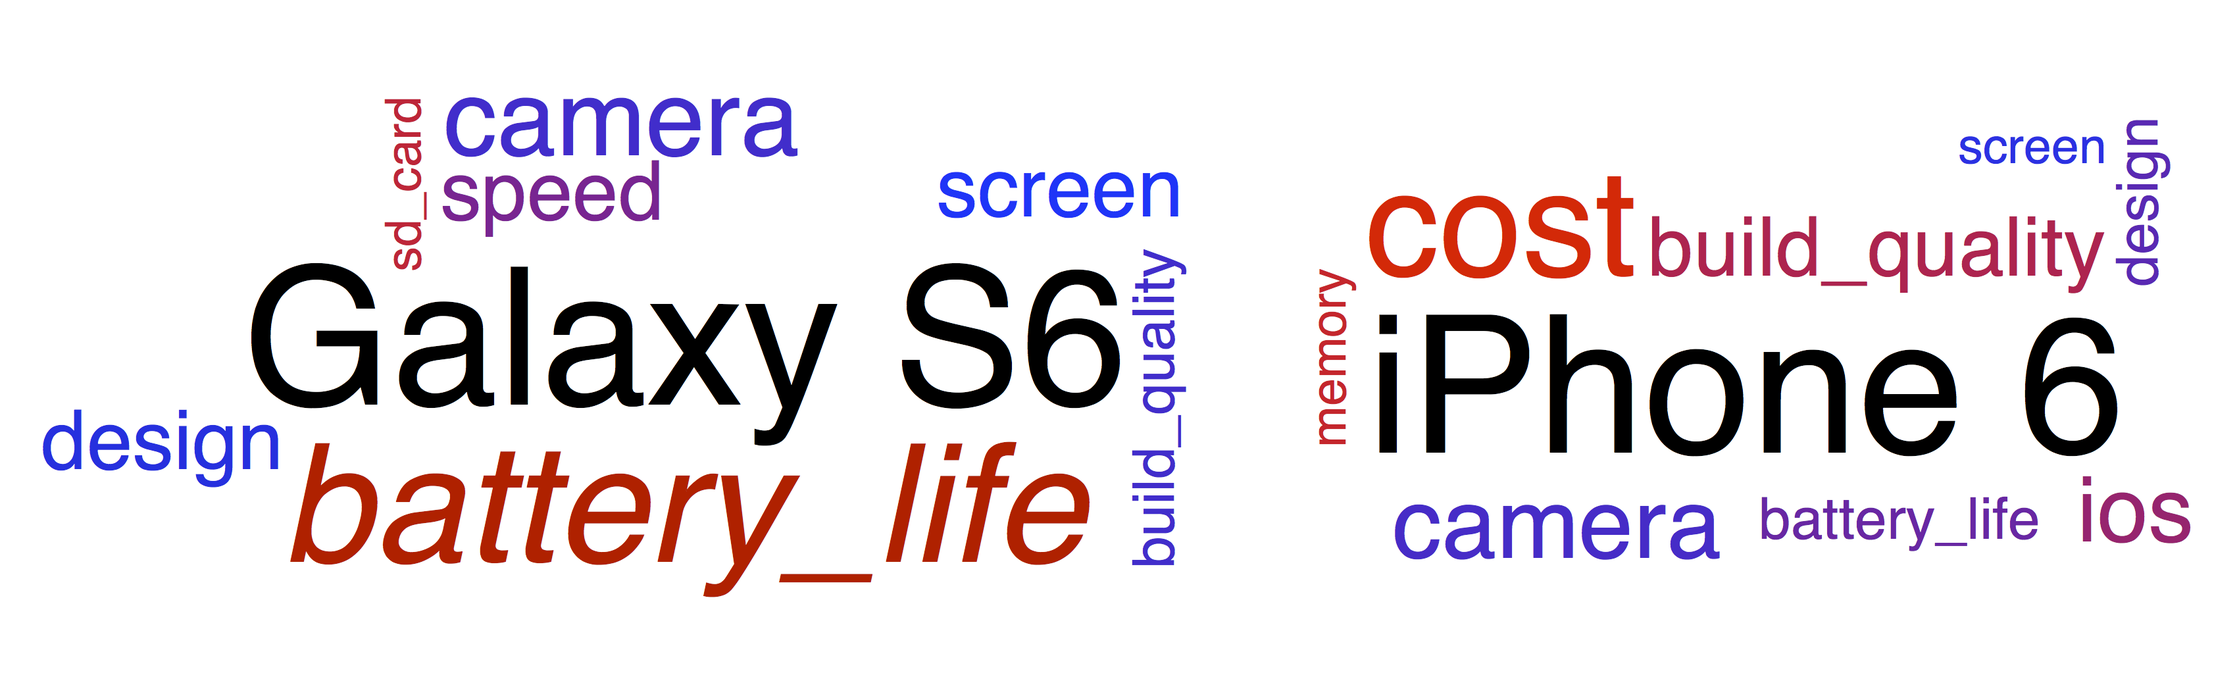
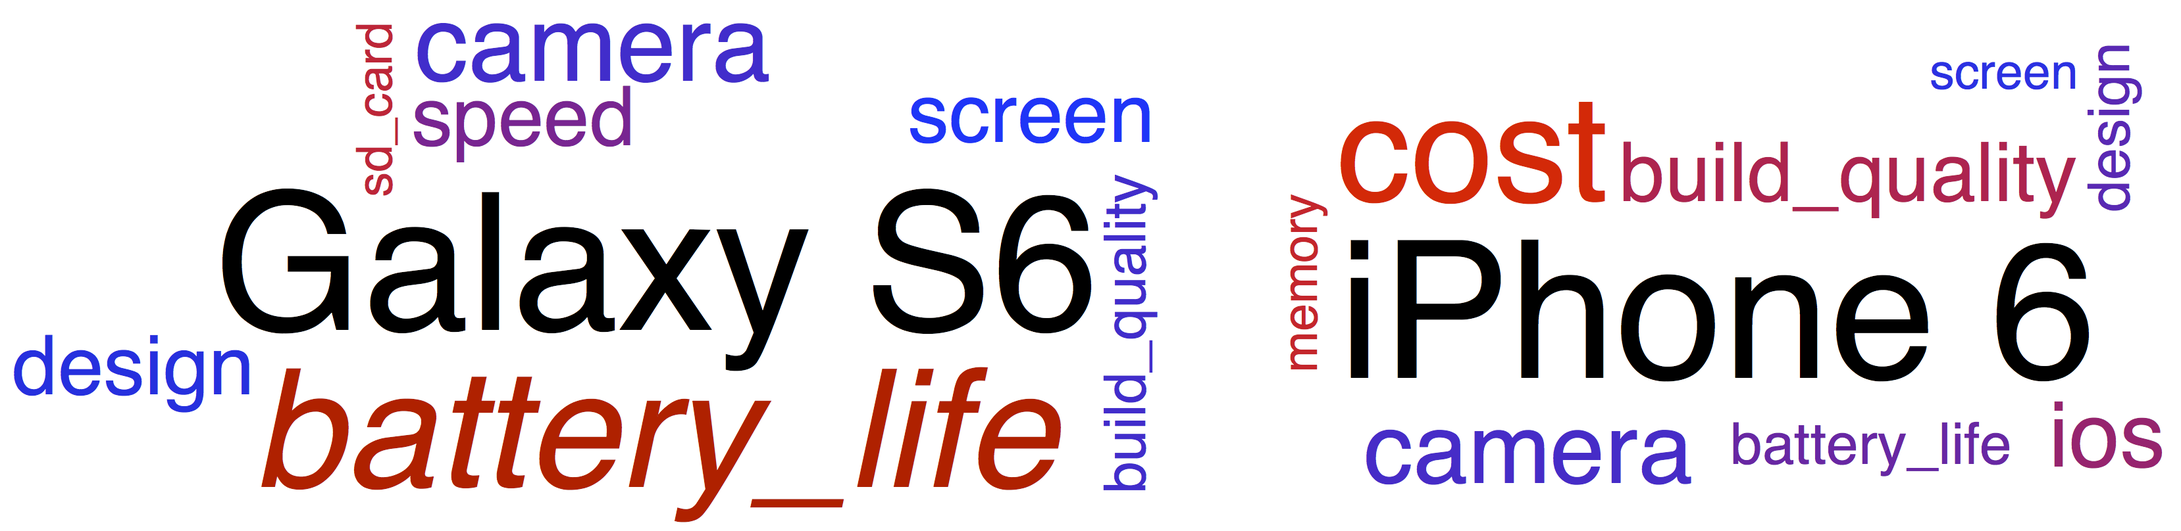
final proofread, update figure

Changed region(s): [[0.0, 0.0309, 0.5284, 0.9901], [0.5905, 0.0928, 0.9946, 0.9282]]

diff --git a/final_writeup/final.tex b/final_writeup/final.tex
@@ -49,19 +49,19 @@ Stanford University \\
 \maketitle
 
 \begin{abstract}
-Previous work in \textit{aspect-level sentiment analysis}---identifying the sentiment associated with various attributes of a product---have mostly been formulated as supervised learning problems, requiring labels of both the relevant aspects and their sentiment. Acquiring labels for sufficiently large datasets are however often costly and time consuming. Here we propose a largely unsupervised and scalable method for aspect-level sentiment analysis that consists of two steps: 1) discovery and extraction of aspects from product reviews via clustering of \texttt{word2vec} representations, 2) classifying aspect-specific sentiments using convolutional neural networks.
+Previous work in \textit{aspect-level sentiment analysis}---identifying the sentiment associated with various attributes of a product---have mostly been formulated as supervised learning problems, requiring labels of both the relevant aspects and their sentiment. Acquiring labels for sufficiently large datasets is, however, often costly and time consuming. Here, we propose a largely unsupervised and scalable method for aspect-level sentiment analysis that consists of two steps: 1) discovery and extraction of aspects from product reviews via clustering of \texttt{word2vec} representations, 2) classifying aspect-specific sentiments using convolutional neural networks.
 \end{abstract}
 
 \section{Introduction}
 
 
-In this day and age, consumers have unprecedented access to a deluge of information about products---most notably, reviews written by other consumers---with which to make his or her purchase decisions. Unfortunately, sifting through hundreds of reviews across tens of different websites to acquire specific information about the product and its important attributes (e.g. \textit{battery life}, \textit{screen size}, or \textit{weight} in the case of electronic products) is a time-consuming chore. Fortunately, the proliferation of customer reviews on websites such as Amazon.com has made it possible, with the right tools, to leverage the ``wisdom of the crowd" when making purchase decisions. Aspect-level sentiment analysis would allow consumers to effortlessly compare relatively unbiased sentiments of various aspects of multiple similar products.
+In this day and age, consumers have unprecedented access to a deluge of information about products---most notably, reviews written by other consumers---with which to make their purchase decisions. Unfortunately, sifting through hundreds of reviews across tens of different websites to acquire specific information about the product and its important attributes (e.g. \textit{battery life}, \textit{screen size}, or \textit{weight} in the case of electronic products) is a time-consuming chore. Fortunately, the proliferation of customer reviews on websites such as Amazon.com has made it possible, with the right tools, to leverage the ``wisdom of the crowd" when making purchase decisions. Aspect-level sentiment analysis would allow consumers to effortlessly compare relatively unbiased sentiments of various aspects of multiple similar products.
 
-However, one of the biggest challenges in training aspect-specific sentiment analysis models is the lack of large datasets labeled with sentiment on the aspect-level (for most datasets, sentiment labels exist on a document level). In this report, we propose a scalable and efficient method for extracting and classifying aspect-specific sentiments that is largely unsupervised. To do this, we tackle two separate but interconnected components of this problem: 1) discovery of aspects, and 2) aspect-specific sentiment classification.
+However, one of the biggest challenges in training aspect-specific sentiment analysis models is the lack of large datasets labeled with sentiment on the aspect-level (for most datasets, sentiment labels exist on a document level). In this report, we propose a scalable and efficient method for extracting and classifying aspect-specific sentiments that is largely unsupervised. To do this, we tackle two separate but interconnected components of this problem: 1) aspect discovery, and 2) aspect-specific sentiment classification.
 
-Within the context of a product review, the first component, \textit{aspect discovery}, involves identifying individual ``aspects" (which could be the product itself, or features/attributes of the product). This is made more difficult by the fact that relevant aspects might differ greatly across products in the same category. For example, aspects revelant to a cellular phone might be \textit{battery life}, \textit{screen size}, \textit{weight} and \textit{cost}. Not all these aspects are relevant across electronic items: for instance, \textit{screen size} might be irrelevant for a pair of headphones or a video game controller. We tackle this problem by generating new aspects from a list of seed words based on cosine similarities of the \texttt{word2vec} representations [1-2], and using the discovered aspects to train an aspect classifier.
+Within the context of a product review, the first component, \textit{aspect discovery}, involves identifying individual ``aspects" (which could be the product itself, or features/attributes of the product). This is made more difficult by the fact that relevant aspects might differ greatly across products in the same category. For example, aspects revelant to a cellular phone might be \textit{battery life}, \textit{screen size}, \textit{weight} and \textit{cost}. Not all these aspects are relevant across other electronic items: for instance, \textit{screen size} might be irrelevant for a pair of headphones or a video game controller. We tackle this problem by generating new aspects from a list of seed words based on cosine similarities of the \texttt{word2vec} representations [1-2], and using the discovered aspects to train an aspect classifier.
 
-The second component, \textit{aspect-specific sentiment classification} involves identifying the sentiment associated with each aspect [3-8]---\textit{very positive, positive neutral, negative or very negative}. We approach this problem by first using a lexicon-based heuristic as a baseline and as a means of \textit{pre-labeling} the data. We then refined the labels and trained a convolutional neural network [10] to tackle the sentiment analysis problem as a sentence classification problem.
+The second component, \textit{aspect-specific sentiment classification} involves identifying the sentiment associated with each aspect [3-8]---\textit{very positive, positive neutral, negative} or \textit{very negative}. We approach this problem by first using a lexicon-based heuristic as a baseline and as a means of \textit{pre-labeling} the data. We then refined the labels and trained a convolutional neural network [10] to tackle the sentiment analysis problem as a sentence classification problem.
 
 \section{Related work}
 
@@ -108,43 +108,41 @@ This model is a 2-layer neural network where the input is a window consisting of
 \begin{align}
 x^{(t)} = [ L x_{t-1}, L x_t, L x_{t+1} ] \in \mathbb{R}^{3d}
 \end{align}
-where $x_{t-1}, x_t, x_{t+1}$ are one-hot vectors into a word-representation matrix $L \in \mathbb{R}^{d \times \vert V \vert}$, where d is the \texttt{word2vec} dimensions and $\vert V \vert$ is the number of words in the vocabulary. We compute our predictions as:
+where $x_{t-1}, x_t, x_{t+1}$ are one-hot vectors into a word-representation matrix $L \in \mathbb{R}^{k \times \vert V \vert}$, where $k$ is the \texttt{word2vec} dimension and $\vert V \vert$ is the vocabulary size. We compute our predictions as:
 \begin{align}
-h &= tanh(W x^{(t)} + b_1)\\
-\hat{y} &= softmax (Uh + b_2)\\
-J(\theta) &= -\sum_{k=1}^{2} y_k \log \hat{y}_k
+h &= \tanh(W x^{(t)} + b_1)\\
+\hat{y} &= \text{softmax} (Uh + b_2)\\
+J(\theta) &= -\sum_{j=1}^{2} y_j \log \hat{y}_j
 \end{align}
 
 where $y \in \mathbb{R}^2$ is a one-hot label vector. When computing the loss for the training set, we average $J(\theta)$ with respect to each training example.
 
 \subsection{Aspect-Specific Sentiment Classification}
-The second half of our workflow involved sentiment analysis given identified aspects. Our intuition for this part stems from locality: if there are multiple sentiment and multiple aspect words within a sentence, then a good intuition would be that sentiment words closer to a particular aspect should be attributed to that aspect. Hence, models should be able to make use of local context to help in attributing sentiment.
+The second half of our workflow involved sentiment analysis given identified aspects. Our intuition for this part stems from locality: if there are multiple sentiment and multiple aspect words within a sentence, then a good intuition would be that sentiment words closer to a particular aspect should be attributed to that aspect (similar to [4,6]). Hence, models should be able to make use of local context to help in attributing sentiment.
 
 \textbf{Pre-labeling using Lexicon-based Heuristic}.
-Using the expanded list of aspects (from the aspect discovery process), we label them using a heuristic based on a sentiment lexicon by Hu and Liu [13]. We obtained phrases (i.e. training examples) consisting of an identified aspect in the middle, surrounded by a context window of $m$ words on both sides. We also padded these phrases with sentence start and end tags and zero-padded them to a fixed length. Next, we labeled all unigrams in these phrases with their unigram-specific sentiment according to the lexicon by [13] and averaged them to obtain the label for each phrase. Having pre-labeled our phrases according to this heuristic, we were then better able to refine the labels manually in less time (and hence less cost).
+Using the expanded list of aspects (from the aspect discovery process), we generate sentiment-labeled examples using a heuristic based on a sentiment lexicon by Hu and Liu [13]. We obtained phrases (i.e. training examples) consisting of an identified aspect in the middle, surrounded by a context window of $m$ words on both sides. We also padded these phrases with sentence start and end tags and zero-padded them to a fixed length. Next, we labeled all unigrams in these phrases with their unigram-specific sentiment according to the lexicon by [13] and averaged them to obtain the label for each phrase. Having pre-labeled our phrases according to this heuristic, we were then better able to refine the labels manually in less time (and hence less cost).
 
 
 \begin{figure}[ht]
 \begin{center}
-\includegraphics[width=\columnwidth]{model_architecture.png}
+\includegraphics[width=.9\columnwidth]{model_architecture2.png}
 \end{center}
-\caption{CNN Model Architecture as documented by Kim [10]. The input is an $2m+1$ word context, where $m$ is the number of words on each side of the aspect, and the center word is an identified aspect. The input is convolved with different filter sizes with $w$ features and is then max-pooled.}
+\caption{CNN Model Architecture as documented by Kim [10]. The input is an $2m+1$ word context, where $m$ is the number of words on each side of the aspect, and the center word is an identified aspect. The input is convolved with different filter sizes with $n_f$ features each and is then max-pooled. Some units are colored for illustration, and darker colors indicate higher values, which are captured by the max-pooling.}
 \label{architecture}
 \end{figure}
 
-\textbf{Sentiment Classification}. We decided upon a Convolutional Neural Network (CNN) Model based after Kim [10], who reported excellent results in sentence classification on many tasks including sentiment analysis. We model our architecture as per [10] and as reproduced in Figure \ref{architecture}. This model has one convolutional layer trained on top of pre-trained word vectors obtained from a \texttt{word2vec} model trained on our dataset. However, unlike [10], our CNN uses only a single non-static channel which allows the word vectors to be further finetuned.
+\textbf{Sentiment Classification}. We decided upon a Convolutional Neural Network (CNN) Model based after Kim [10], who reported excellent results in sentence classification on many tasks including sentiment analysis. We model our architecture as per [10] and as reproduced in Figure \ref{architecture}. This model has one convolutional layer trained on top of pre-trained word vectors obtained from a \texttt{word2vec} model trained on our dataset. However, unlike [10], our CNN uses only a single non-static channel which allows the word vectors to be further fine-tuned.
 
-Our input is represented as:
+For each phrase of length $2m$+$1$, we concatenate its word vectors $x_i$: % $X_{1:2m+1}$:
 \begin{align}
-	x_{1:2m+1} = x_1 \oplus x_2 \oplus \ldots \oplus x_{m+1} \oplus \ldots \oplus x_{2m+1}
+	X_{1:2m+1} = x_1 \oplus x_2 \oplus \ldots \oplus x_{m+1} \oplus \ldots \oplus x_{2m+1}
 \end{align}
-where $\oplus$ is the concatenation operator, $n$ is the sentence length, $x_i \in \mathbb{R}^k$ is a k-dimensional word vector of the i-th word, and $x_{m+1}$ is the aspect word. Convolution using multiple filters $w \in \mathbb{R}^{hk}$ of various sizes $h$ is applied to the input to produce new features. A feature $c_i$ is generated from a window of words $x_{i:i+h-1}$ as such:
+where $\oplus$ is the concatenation operator. Note that $x_{m+1}$, the center word, is an identified aspect. We prepare convolution filters of variable filter size $h$ (each filter $\textbf{w} \in \mathbb{R}^{hk}$). In Figure \ref{architecture}, the purple convolution illustrates a single filter \textbf{w} of size $h=3$ operating on a phrase of size $2m+1 = 7$, producing $2m+1 - h = 4$ features, and we have $n_\text{f}$ such filters for each filter size. Formally, a feature $c_i$ produced by a filter \textbf{w} is generated from a window of words $X_{i:i+h-1}$ via a non-linearity (in our case, the rectified linear unit operator ReLU):
 \begin{align}
-c_i = ReLU(\textbf{w} \cdot \textbf{x}_{i:i+h-1} + b)
+c_i = \text{ReLU}(\textbf{w} * X_{i:i+h-1} + b)
 \end{align}
-This filter is applied across the input phrase to produce a feature map $\textbf{c} = [c_1, c_2, \ldots, c_{n-h+1}] \in \mathbb{R}^(n-h+1)$. We then apply a max-over-time pooling operation over each feature map and retain the maximum value $\hat{c} = max \{\textbf{c}\}$ for each filter.
-
-Lastly, we employ dropout [14] in the fully connected layer and take the softmax output to obtain the predictions for all five sentiment classes.
+where $*$ is the convolution operator and $b \in \mathbb{R}$ is a bias term . This filter is applied across the input phrase to produce a feature map $\textbf{c} = [c_1, c_2, \ldots, c_{(2m+1)-h+1}] \in \mathbb{R}^{((2m+1)-h+1)}$. We then apply a max-over-time pooling operation over each feature map to obtain the largest feature activation value $\hat{c} = \max \{\textbf{c}\}$ for each filter. This is done separately for each of $n_f$ filters for each filter size $h$. Lastly, we employ dropout [14] in the fully connected layer and take the softmax output to obtain the predictions for all five sentiment classes.
 
 
 \section{Experimental Results} 
@@ -156,7 +154,7 @@ Lastly, we employ dropout [14] in the fully connected layer and take the softmax
 \begin{center}
 \includegraphics[width=\columnwidth]{Aspects_long.png}
 \end{center}
-\caption{Aspects Discovery. Word clouds generated by seeding \texttt{portability} (left), \texttt{contrast} (middle), and \texttt{tripod} (right). Words are sized according to cosine similarity with the seed word.}
+\caption{Aspects Discovery. Word clouds generated by seeding \texttt{portability} (left), \texttt{contrast} (middle), and \texttt{tripod} (right) and are grouped by color according to the seed word. Words are sized according to cosine similarity with the seed word.}
 \label{aspectFig}
 \end{figure}
 
@@ -166,7 +164,7 @@ Figure \ref{aspectFig} illustrates the top-$n$ closest results for the seed word
 
 As shown in Fig. \ref{aspectFig}, words like \texttt{portability} returned many synonyms as well as product aspects that are related to it (e.g. \texttt{ruggedness} and \texttt{simplicity}). Our model is also capable of returning aspects that are specific and unique to the product category it is trained on. In this case of electronic products, a query like \texttt{contrast} returned words like \texttt{shadow\_detail}, \texttt{dynamic\_range}, \texttt{black\_levels} and \texttt{gamma}, which are aspects specific to devices like monitor displays and cameras. Finally, the query \texttt{tripod} returned various aspects of camera tripods, many of them being features that are non-obvious to the layperson. For instance, \texttt{ball\_head} refers to a type of ball-shaped tripod head that allows free-pivoting along two rotational axes (as opposed to Cartesian axes), and \texttt{quick\_release} refers to tripod mounts that come with a quick-release plate. Many of these queries would otherwise perform poorly if performed on lexical databases like WordNet.
 
-We also found that out of 336 discovered aspects (56*5 neighboring aspects + 56 seed aspects), only 9 words are considered to be non-aspect words, giving us an accuracy of \textbf{97.32\%}. We also found that the aspect discovery process was useful in discovering unintuitive but highly related words such as acronyms (e.g. \texttt{ui} and \texttt{gui}, \texttt{kb} and \texttt{keyboard}), common typos (e.g. \texttt{qaulity}, \texttt{quaility}) and synonymous words (e.g. \texttt{trackpad}, \texttt{touchpad}).
+Out of 336 discovered aspects (56*5 neighboring aspects + 56 seed aspects), we judged only 9 words to be non-aspect words, giving an accuracy of \textbf{97.32\%}. We also found that the aspect discovery process was useful in discovering unintuitive but highly related words such as acronyms (e.g. \texttt{ui} and \texttt{gui}, \texttt{kb} and \texttt{keyboard}), common typos (e.g. \texttt{qaulity}, \texttt{quaility}) and synonymous words (e.g. \texttt{trackpad}, \texttt{touchpad}).
 
 \subsubsection{Window Aspect Classifier}
 We performed hyperparameter tuning on our window classifier and found that window of size 5, regularization strength of 0.001 and learning rate of 0.01 using a minibatch schedule produced the best performing model. This was trained on a randomly sampled subset of 20,000 sentences, each of which containing at least one aspect. The training dataset consists of 48,368 \texttt{ASP}-labeled words and 848,218 \texttt{O}-labeled words. 
@@ -194,11 +192,11 @@ Sliding Window Classifier & 92.45\%  & 99.15\%\\
 \end{table}
 
 \subsubsection{Pre-labeling}
-Using the aforementioned steps, we obtained the 6,000 labeled examples which consisted of an identified aspect in the middle, surrounded by a context window of 5 words on both sides. We padded these phrases with sentence start and end tags and zero vectors. Next, we manually re-labeled these 6,000 examples on a 5 point scale, corresponding to \textit{very negative, negative, neutral, positive, and very positive}.
+Using the aforementioned steps, we sampled 6,000 labeled examples which consisted of an identified aspect in the middle, surrounded by a context window of 5 words on both sides. We padded these phrases with sentence start and end tags and zero vectors. Next, we manually re-labeled these 6,000 examples on a 5 point scale, corresponding to \textit{very negative, negative, neutral, positive, and very positive}.
 
 Our lexicon-based heuristic has a \textbf{75.25\%} classification accuracy with 3 classes, i.e. only 24.75\% of the 6,000 examples has to be re-labeled into 5 classes. This pre-labeling greatly sped up our labeling process to approximately 8 man-hours for all 6,000 examples. This heuristic also provides us with a baseline accuracy for our CNN sentence classification model.
 
-Our labeled dataset of 6,000 examples is comparable to existing available aspect-sentiment datasets (e.g. the Beer Advocate dataset and Camera Review dataset reported in [8] had 8,000 and 4,000 labeled examples respectively).
+It is worth noting that our labeled dataset of 6,000 examples is comparable to existing available aspect-sentiment datasets (e.g. the Beer Advocate dataset and Camera Review dataset reported in [8] had 8,000 and 4,000 labeled examples respectively).
 
 % Socher's model (down the rows) vs. human labels. So there were 16 instances that human says 2 and model says 1.
 %							True Labels
@@ -222,7 +220,7 @@ The difference in accuracy was largely a result of testing the model out of doma
 \subsubsection{Aggregated Aspect-specific Reviews}
 \begin{figure}[ht]
 \begin{center}
-\includegraphics[width=\columnwidth]{productCloud.png}
+\includegraphics[width=.9\columnwidth]{productCloud.png}
 \end{center}
 \caption{Word-cloud visualizations of how \texttt{(aspect, sentiment)} tuples across multiple products can be summarized. The size of the aspect is proportional to the frequency, while the colors represent sentiment, interpolated between blue (positive) and red (negative). }
 \label{productFig}
@@ -230,9 +228,9 @@ The difference in accuracy was largely a result of testing the model out of doma
 
 We next performed a qualitative evaluation of a potential application of our model: aggregated aspect-specific reviews. We considered reviews of two popular cell phones, the Samsung Galaxy S6 and the Apple iPhone 6, and provided a visualization of the averaged sentiment in Fig. \ref{productFig}, where the word size reflects the frequency of occurrences of that aspect in the reviews, and the colors represented the sentiment associated with it. 
 
-The visualization in Fig. \ref{productFig} shows that the single most talked about aspect of the Galaxy S6 is its battery life, which also happens to be rated rather negatively. In contrast, "battery life" is less mentioned in the reviews of the iPhone 6 and is rated more positively. The biggest complaint of the iPhone 6 seems to be its cost, while that was mentioned a lot less in the reviews of the Galaxy S6 (below the threshold we set for our visualization). Thus, a consumer who might be deciding between the Galaxy S6 and the iPhone 6 would be able to weigh specific features (e.g. how important is battery life for this consumer) very quickly and accurately without having to read through multiple (and often lengthy) reviews.
+The visualization in Fig. \ref{productFig} shows that the single most talked about aspect of the Galaxy S6 is its battery life, which also happens to be rated rather negatively. In contrast, battery life is mentioned far less in the reviews of the iPhone 6 and is rated more positively. The biggest complaint of the iPhone 6 seems to be its cost, while that was mentioned a lot less in the reviews of the Galaxy S6 (below the threshold we set for our visualization). Thus, a consumer who might be deciding between the Galaxy S6 and the iPhone 6 would be able to weigh specific features (e.g. how important is battery life for this consumer) very quickly and accurately without having to read through multiple (and often lengthy) reviews.
 
-One other source of aspect-specific reviews are specialized websites that offer ``expert reviews", and often offers ratings of individual (but broader) aspects. These reviews, however, are based on the opinion of one person or a small team of reviewers and are inherently biased. As a comparison, we examined reviews of the same two products on cnet.com, a website that specializes in electronics product reviews. The Galaxy S6 on cnet.com received an 8 (out of 10) on Battery life, 9 on Features, 9 on Design, 8 on Camera and 9 on Performance. The editor's rating was 8.9 overall (4.5 stars), and the average user review was about 3 stars from 41 user reviews. The iPhone 6 was given a 9/10 for each of Design, Features and Performance, and an overall editor rating of 9/10, or 4.5 stars, compared with about 4 stars from 43 user reviews. Interestingly, the cnet editor's overall ratings for the Galaxy S6 seemed to diverge with the average cnet user rating (4.5 vs. 3). Moreover, the cnet editor's high rating of the Galaxy's battery life seemed at odds with the general sentiment of the average Amazon user. This suggests some discrepancy between ``expert reviewers" and ``average reviewers" (i.e. the consumers). This application also suggests that leveraging the "wisdom of the crowd" might provide more accurate reviews of a product than reviews from individual ``experts".
+One other source of aspect-specific reviews are specialized websites that offer ``expert reviews", and often offers ratings of individual (but broader) aspects. These reviews, however, are based on the opinion of one person or a small team of reviewers and are inherently biased. As a comparison, we examined reviews of the same two products on cnet.com, a website that specializes in electronics product reviews. The Galaxy S6 on cnet.com received an 8 (out of 10) on Battery Life, 9 on Features, 9 on Design, 8 on Camera and 9 on Performance. The editor's rating was 8.9 overall (4.5 stars), and the average user review was about 3 stars from 41 user reviews. The iPhone 6 was given a 9/10 for each of Design, Features and Performance, and an overall editor rating of 9/10, or 4.5 stars, compared with about 4 stars from 43 user reviews. Interestingly, the cnet editor's overall ratings for the Galaxy S6 seemed to diverge with the average cnet user rating (4.5 vs. 3). Moreover, the cnet editor's high rating of the Galaxy's battery life seemed at odds with the general sentiment of the average Amazon user. This suggests some discrepancy between ``expert reviewers" and ``average reviewers" (i.e. the consumers). This application also suggests that leveraging the "wisdom of the crowd" might provide more accurate reviews of a product than reviews from individual ``experts".
 
 \subsubsection{Error Analysis}
 Below we describe some of the bigger errors in our approach.
